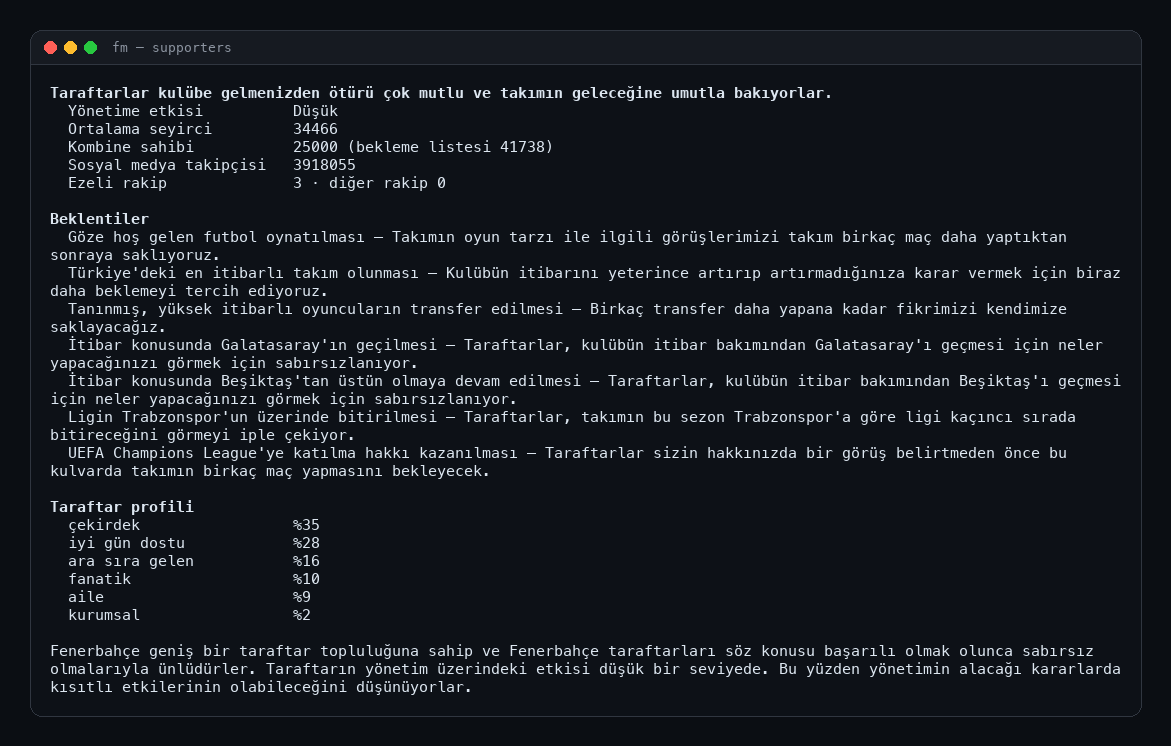
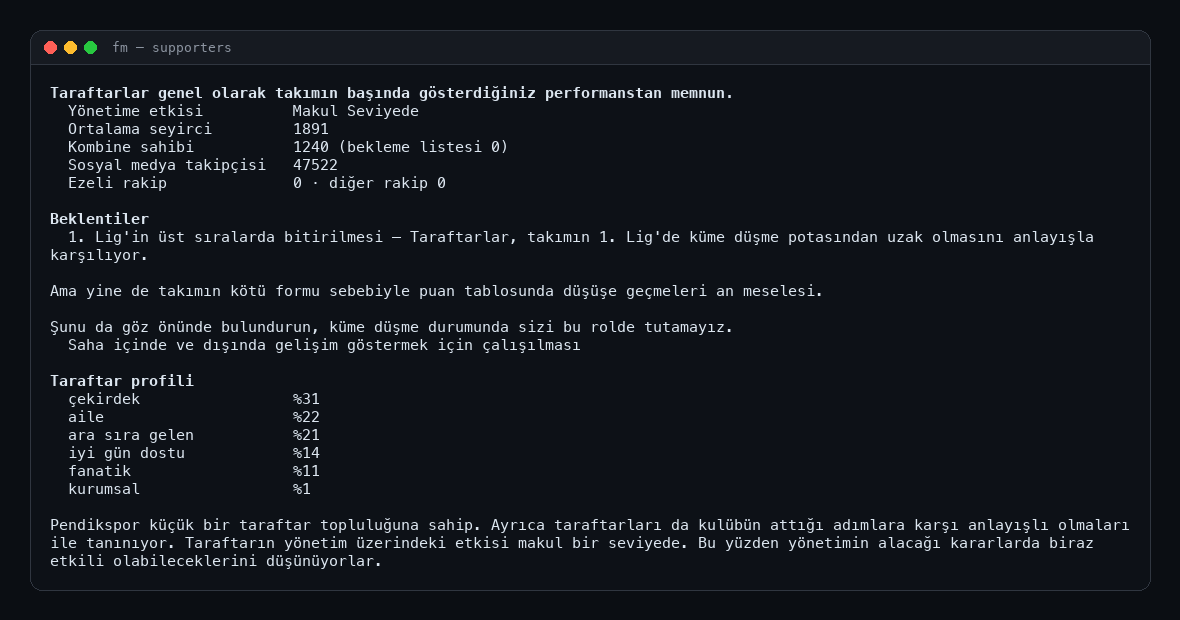
feat: youth candidates show signed / on trial; contract opens a candidate's talks by the game's approach to sign (T59); manual images refreshed
- youth candidates read TrialClub: none once signed
- contract <player> falls back to PersonApproachToSign for a player here on trial
- docs/manual: youth candidates, facilities (the game's yes/no), supporters
TR + EN 3/3, round25.toml

Changed region(s): [[0.0307, 0.0306, 0.953, 0.9806]]

diff --git a/cli/fm/Club/Youth.cs b/cli/fm/Club/Youth.cs
@@ -32,13 +32,15 @@ internal static partial class Program
 			else Console.Error.WriteLine(L("This year's intake candidates have not come yet (intake date: youth)."));
 			return json ? 0 : 1;
 		}
-		const string Props = "Name,Age,PositionCombinedString,Nation.Name,PerceivedPotentialAbility";
+		// Every candidate is at the club on trial until signed: a signed one has no trial club any more.
+		const string Props = "Name,Age,PositionCombinedString,Nation.Name,PerceivedPotentialAbility,Club.UniqueId,TrialClub.UniqueId";
+		const string Required = "Name,Age,PositionCombinedString,Nation.Name,PerceivedPotentialAbility,Club.UniqueId";
 		List<JsonElement> rows = [];
 		var whole = await Until(async () =>
 		{
 			var read = await Fm.Pull("Human.Club.AllYouthCandidates", Props, list: true);
 			rows = read.ValueKind == JsonValueKind.Array ? read.EnumerateArray().Select(r => r.Clone()).ToList() : [];
-			return rows.Count == came && rows.All(r => Props.Split(',').All(f => Field(r, f).Length > 0));
+			return rows.Count == came && rows.All(r => Required.Split(',').All(f => Field(r, f).Length > 0));
 		}, seconds: 10, every: 0.3);
 		if (!whole)
 		{
@@ -47,15 +49,17 @@ internal static partial class Program
 		}
 		var candidates = rows
 			.Select(r => (Name: Field(r, "Name"), Age: Field(r, "Age"), Position: Field(r, "PositionCombinedString"), Nation: Field(r, "Nation.Name"),
-				Potential: int.TryParse(Field(r, "PerceivedPotentialAbility"), out var pa) ? pa : 0))
+				Potential: int.TryParse(Field(r, "PerceivedPotentialAbility"), out var pa) ? pa : 0,
+				Signed: Field(r, "TrialClub.UniqueId").Length == 0))
 			.OrderByDescending(c => c.Potential).ThenBy(c => c.Name).ToList();
 		if (json)
 		{
-			Console.WriteLine(JsonOut.Of(candidates.Select(c => new { c.Name, Age = int.TryParse(c.Age, out var a) ? a : 0, c.Position, c.Nation, c.Potential })));
+			Console.WriteLine(JsonOut.Of(candidates.Select(c => new { c.Name, Age = int.TryParse(c.Age, out var a) ? a : 0, c.Position, c.Nation, c.Potential, c.Signed })));
 			return 0;
 		}
-		Table.Write([L("PLAYER"), L("AGE"), L("POSITION"), L("NATION"), L("POTENTIAL")],
-			candidates.Select(c => new[] { c.Name, c.Age, c.Position, c.Nation, $"{c.Potential}/200" }).ToList());
+		Table.Write([L("PLAYER"), L("AGE"), L("POSITION"), L("NATION"), L("POTENTIAL"), L("STATUS")],
+			candidates.Select(c => new[] { c.Name, c.Age, c.Position, c.Nation, $"{c.Potential}/200", c.Signed ? L("signed") : L("on trial") }).ToList());
+		Console.WriteLine(L("To offer one a youth contract: contract <player>"));
 		Console.WriteLine(L($"\n{candidates.Count} candidates in this year's intake (potential as the club sees it)."));
 		return 0;
 	}

diff --git a/cli/fm/Transfer/ContractTalks.Screen.cs b/cli/fm/Transfer/ContractTalks.Screen.cs
@@ -104,7 +104,7 @@ internal static partial class Program
 
 	/// <summary>
 	/// Opens the talks for a new contract with one of our players, the way the game does: his
-	/// page's actions menu, by the game's action (PersonOfferContract). The game first warns
+	/// page's actions menu, by the game's action (PersonOfferContract; for a player here on trial, PersonApproachToSign). The game first warns
 	/// that going in without asking his agent may upset them. Null once the talks are open.
 	/// </summary>
 	private static async Task<int?> OpenRenewal(string wanted)
@@ -113,6 +113,9 @@ internal static partial class Program
 		var name = Field(card.GetProperty("Player"), "Name");
 
 		if (await RunPlayerAction(OfferContractAction) is not { } chose) return 1;
+		// A player at the club on trial (a youth intake candidate) has no contract to renew: his menu offers the
+		// game's approach to sign (PersonApproachToSign), which opens the same talks.
+		if (!chose && await RunPlayerAction("PersonApproachToSign") is true) chose = true;
 		if (!chose)
 		{
 			var ours = (await Fm.Pull("Human.Team.Players", "Name", list: true)).EnumerateArray().Any(p => Field(p, "Name") == name);

diff --git a/docs/TASKS.md b/docs/TASKS.md
@@ -334,7 +334,10 @@ Each: crawl the screen, map it to a command, open a task for what is missing.
   - [ ] The postponement request a call-up brings ("Request … postponement?"): answered with `reply`, read back.
 - [ ] T59 Youth intake (March): candidates, intake preview.
   - [x] Candidates (T28). The intake came on 4 Apr 2029 (Varzim) with no message of its own in the inbox.
-  - [ ] What can be done with a candidate (offer a youth contract, release): not looked at yet.
+  - [x] A candidate's status by the game's data (on trial until signed: no trial club once signed); a youth contract
+    offered with `contract <candidate>` (the game's approach to sign, PersonApproachToSign, when there is no contract
+    to renew), his answer by message (EN by hand: Agostinho signed, then "signed" in the list). The rest of his
+    menu through `actions`. TR + EN 3/3 (`round25.toml`).
 - [ ] T60 Board meeting and board requests answered; job offers while employed; being sacked.
   - [x] Sacked (`sacked`): the message, `status` says unemployed, `jobs` lists 45; applications by the game's own button.
   - [x] Interview (`interview`) through `reply` and `talk`, to a job offer, its contract card (`contract` now reads an

diff --git a/docs/MANUAL.md b/docs/MANUAL.md
@@ -168,7 +168,7 @@ fm penalties                 # penalty order and rules
 
 ![fm youth](manual/img/tactics/youth.png)
 
-![fm youth --candidates](manual/img/tactics/youth-candidates.png)
+![fm youth candidates](manual/img/tactics/youth-candidates.png)
 
 ## 6. Match day
 
